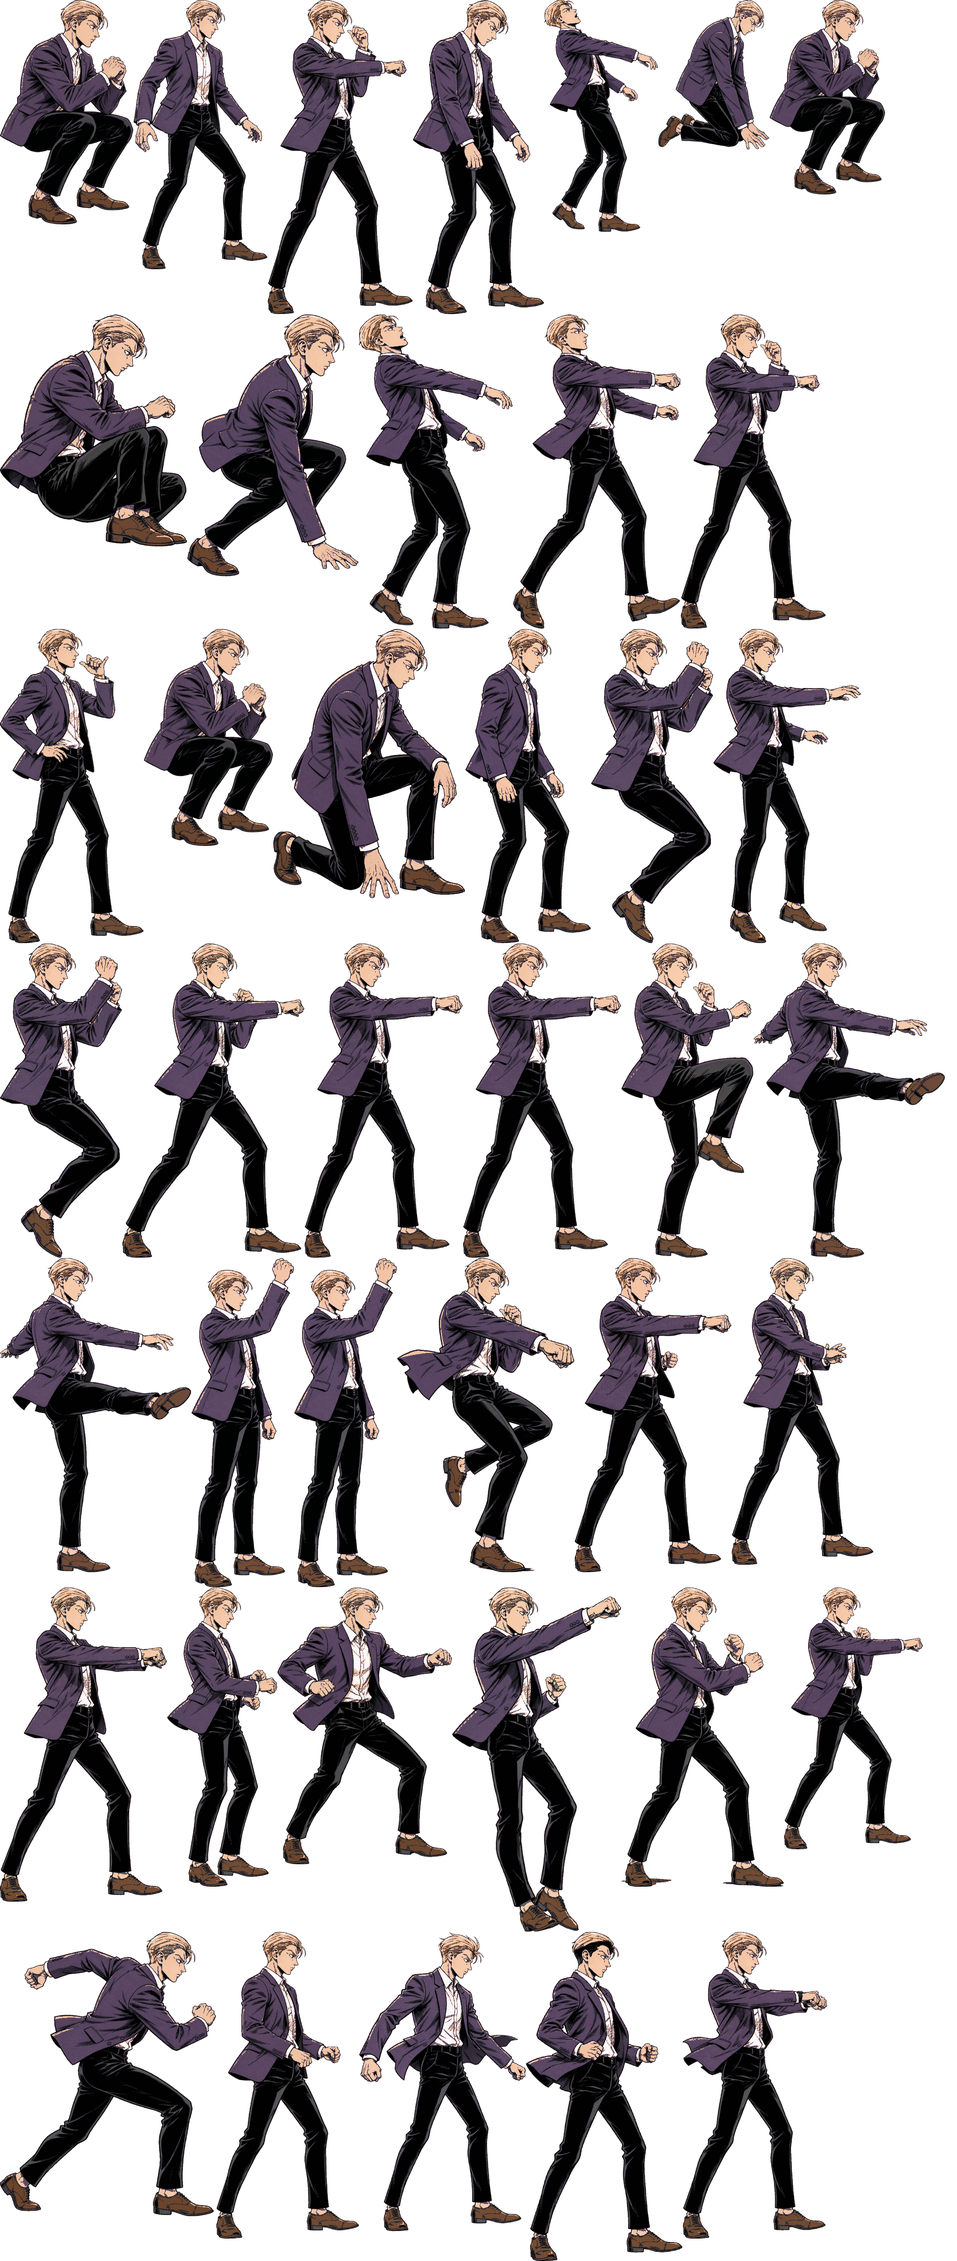
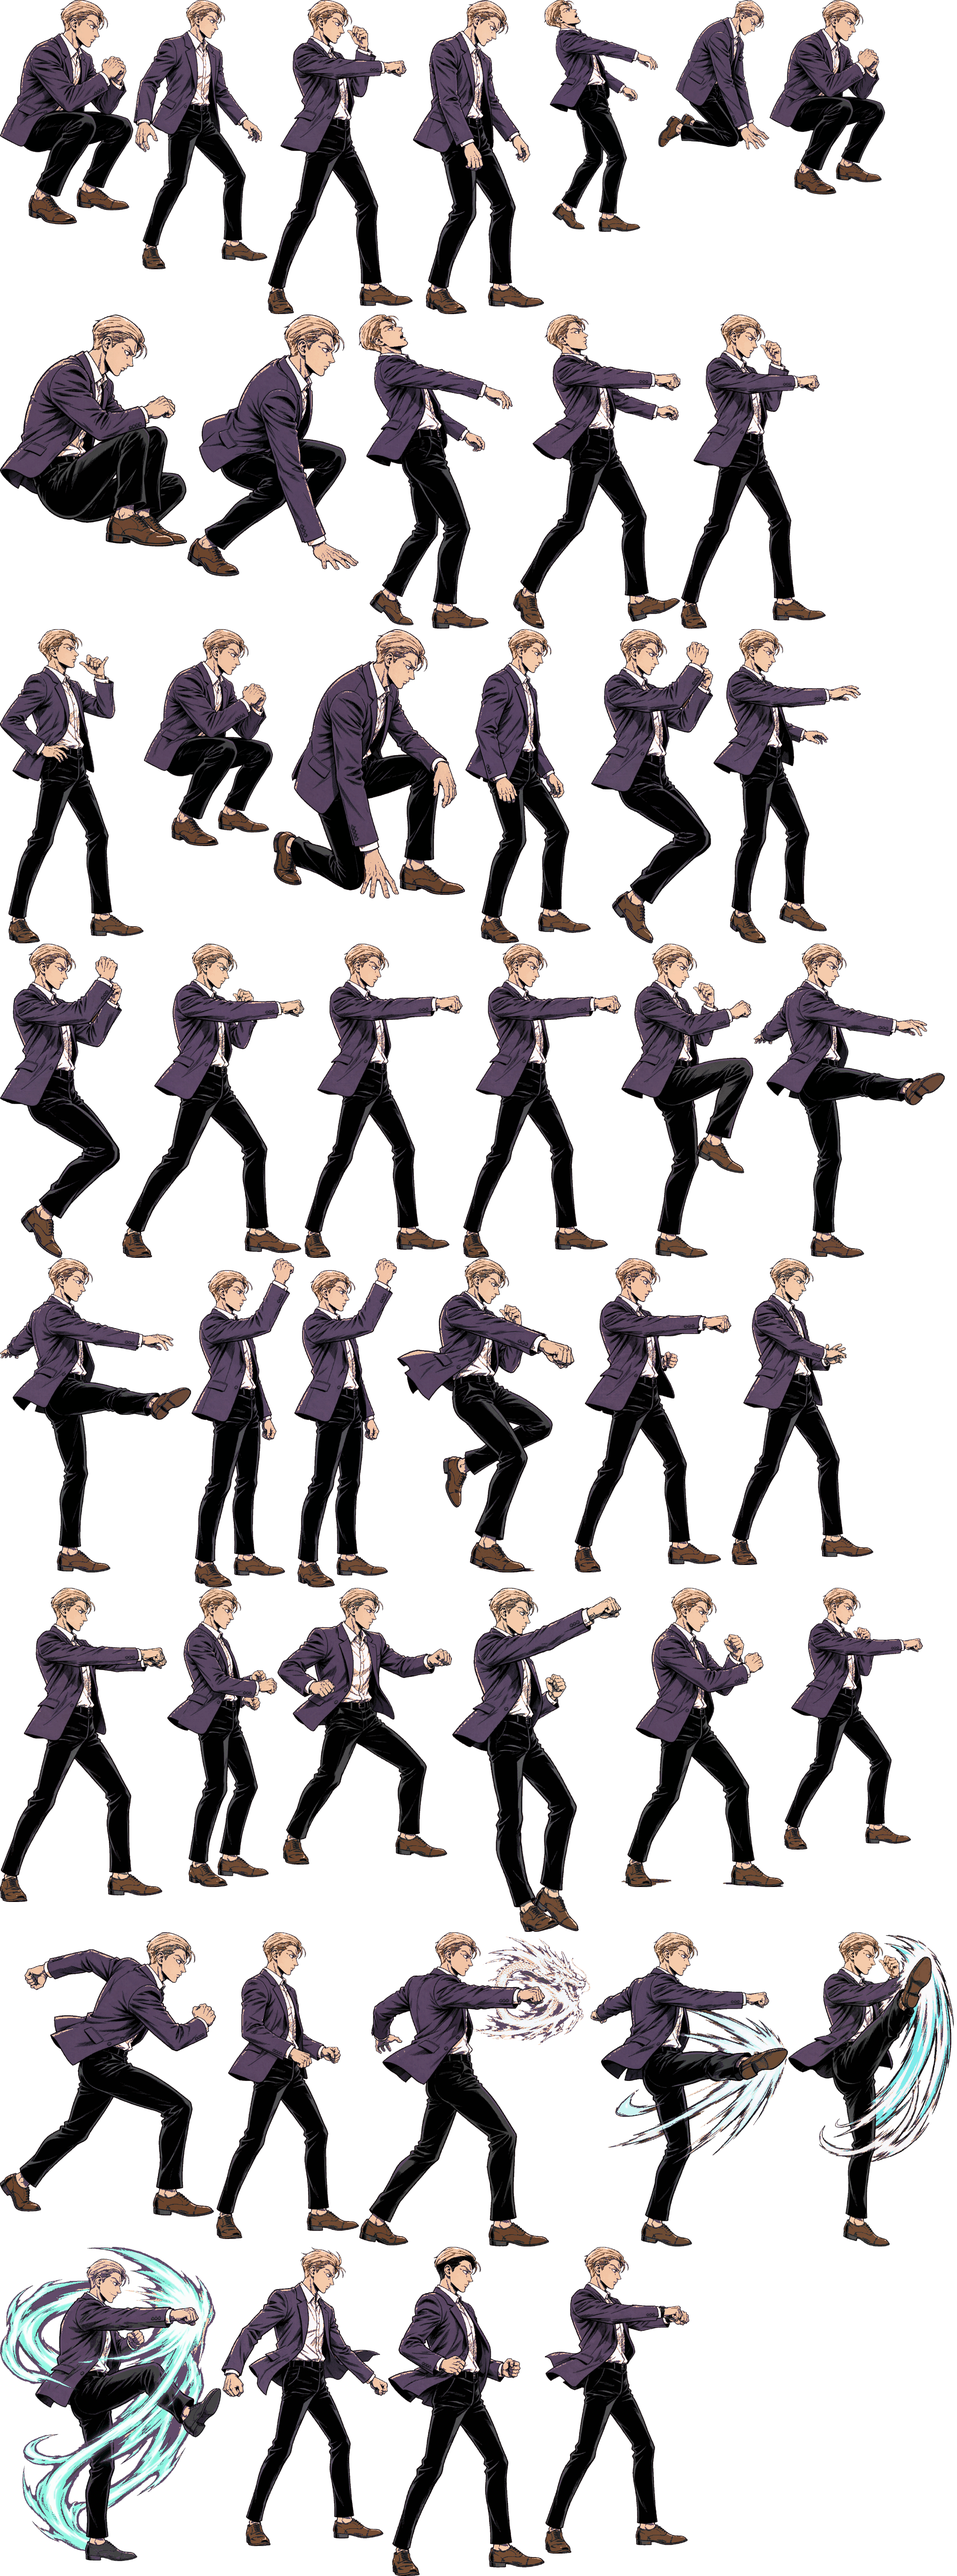
批次 20261027-0729 · [T263] 动作专属化 10/27：獠 + Robert 各 4 招
改了什么：
- gen-poses 加 8 条（Ryo：橙黄气弹/连打气浪/缠气劈腿/巨大气柱；
  Robert：青白龙形气流/腿影残像/缠气上踢/全身气流环绕）
- build-sheet 加 ryospecial1-3 + ryosuper、robspecial1-3 + robsuper，
  同时更新 EXCLUSIVE_OWNER
- poses.ts 加 8 个兜底（带 exclusive）
- ryo.ts / robert.ts 各改 5 处

两个坑：
1. robgen-ei 当对象 key 有连字符 → 语法错误，改成 robgenei
2. poses.ts 里把"姿势名"写成了出图姿势名（robgenei）而不是动画名（robspecial2），
   测试报「姿势库里没有 robspecial2」——**姿势名必须和 anim 名一致**

风格区分：Ryo＝白道服、刚猛、橙黄气；Robert＝紫西装、飘逸、青白气
（两人有同名招式但气质不同）。

怎么验证的：art:check 通过；npm run check 995 条全绿；
打包两个角色都检查了错误（grep -qi error），失败=0

diff --git a/src/data/chars/robert.ts b/src/data/chars/robert.ts
@@ -41,7 +41,7 @@ export const ROBERT: CharDef = {
 
     // ---------------------------------------------------------------- 必杀技
     // 龍撃拳：气弹
-    '236A': mv('236A', '龍撃拳', 'special', 36, 'special', [], {
+    '236A': mv('236A', '龍撃拳', 'robspecial1', 36, 'special', [], {
       input: { motion: '236', buttons: ['A'] },
       projectile: {
         anim: '龍撃拳',
@@ -76,7 +76,7 @@ export const ROBERT: CharDef = {
     ], { input: { motion: '214', buttons: ['B'] }, travel: 62, travelFrames: 15 }),
 
     // 幻影脚・連：二段回旋（可取消接龍撃拳）
-    '214A': mv('214A', '幻影脚・連', 'kickLight', 34, 'special', [
+    '214A': mv('214A', '幻影脚・連', 'robspecial2', 34, 'special', [
       hit('h1', { box: { x: 12, y: -60, w: 32, h: 18 }, frames: [8, 11], damage: 34, hitStun: 15, hitstop: 7, meterGain: 5 }),
       hit('h2', {
         box: { x: 12, y: -66, w: 34, h: 20 },
@@ -90,7 +90,7 @@ export const ROBERT: CharDef = {
     ], { input: { motion: '214', buttons: ['A'] }, cancel: { onHit: ['236A'] } }),
 
     // 昇龍脚：对空
-    '623B': mv('623B', '昇龍脚', 'kickHeavy', 40, 'special', [
+    '623B': mv('623B', '昇龍脚', 'robspecial3', 40, 'special', [
       hit('h1', {
         box: { x: 6, y: -90, w: 28, h: 64 },
         frames: [4, 11],
@@ -104,7 +104,7 @@ export const ROBERT: CharDef = {
     ], { input: { motion: '623', buttons: ['B'] }, invuln: [{ frames: [1, 6], kind: 'full' }] }),
 
     // ---------------------------------------------------------------- 超必杀
-    '236236B': mv('236236B', '龍虎乱舞', 'special', 70, 'super', [
+    '236236B': mv('236236B', '龍虎乱舞', 'robsuper', 70, 'super', [
       hit('h1', { box: { x: 12, y: -70, w: 38, h: 30 }, frames: [8, 12], damage: 40, hitStun: 18, hitstop: 8, meterGain: 0 }),
       hit('h2', { box: { x: 12, y: -70, w: 38, h: 30 }, frames: [16, 20], damage: 36, hitStun: 18, hitstop: 8, meterGain: 0 }),
       hit('h3', { box: { x: 12, y: -76, w: 40, h: 40 }, frames: [24, 28], damage: 36, hitStun: 18, hitstop: 8, meterGain: 0 }),
@@ -120,7 +120,7 @@ export const ROBERT: CharDef = {
       }),
     ], { input: { motion: '236236', buttons: ['B'] }, meterCost: 100, travel: 70, travelFrames: 12 }),
 
-    '2363214B': mv('2363214B', '覇王翔吼拳', 'special', 58, 'super', [], {
+    '2363214B': mv('2363214B', '覇王翔吼拳', 'robsuper', 58, 'super', [], {
       input: { motion: '2363214', buttons: ['B'] },
       meterCost: 50,
       projectile: {

diff --git a/src/render/poses.ts b/src/render/poses.ts
@@ -592,6 +592,15 @@ export const POSE_LIBRARY: Record<string, Pose> = {
   joespecial2: { frameDuration: 1, loop: false, exclusive: 'joe', frames: [f({ head: p(-1, -72), neck: p(-1, -62), hip: p(0, -41), legFront: [p(14, -56), p(20, -76)], legBack: [p(-6, -22), p(-6, -1)] })] },
   joespecial3: { frameDuration: 1, loop: false, exclusive: 'joe', frames: [f({ head: p(3, -70), neck: p(2, -60), hip: p(0, -40), legFront: [p(20, -48), p(30, -44)], legBack: [p(-8, -26), p(-10, -6)] })] },
   joesuper: { frameDuration: 1, loop: false, exclusive: 'joe', frames: [f({ head: p(-2, -72), neck: p(-2, -62), hip: p(0, -40), armFront: [p(10, -62), p(8, -80)], armBack: [p(-12, -50), p(-18, -42)] })] },
+  // 獠 / Robert 专属必杀的兜底
+  ryospecial1: { frameDuration: 1, loop: false, exclusive: 'ryo', frames: [f({ head: p(4, -68), neck: p(4, -58), hip: p(1, -37), armFront: [p(16, -58), p(30, -56)], armBack: [p(-10, -52), p(-16, -46)] })] },
+  ryospecial2: { frameDuration: 1, loop: false, exclusive: 'ryo', frames: [f({ head: p(5, -68), neck: p(5, -58), hip: p(1, -37), armFront: [p(18, -56), p(30, -54)], armBack: [p(6, -56), p(18, -54)] })] },
+  ryospecial3: { frameDuration: 1, loop: false, exclusive: 'ryo', frames: [f({ head: p(0, -72), neck: p(0, -62), hip: p(0, -40), legFront: [p(16, -54), p(22, -76)], legBack: [p(-8, -24), p(-8, -2)] })] },
+  ryosuper: { frameDuration: 1, loop: false, exclusive: 'ryo', frames: [f({ head: p(-1, -70), neck: p(-1, -60), hip: p(0, -38), armFront: [p(16, -58), p(32, -56)], armBack: [p(8, -58), p(22, -56)] })] },
+  robspecial1: { frameDuration: 1, loop: false, exclusive: 'robert', frames: [f({ head: p(4, -68), neck: p(4, -58), hip: p(1, -37), armFront: [p(16, -58), p(28, -58)], armBack: [p(-10, -52), p(-16, -46)] })] },
+  robspecial2: { frameDuration: 1, loop: false, exclusive: 'robert', frames: [f({ head: p(3, -70), neck: p(2, -60), hip: p(0, -38), legFront: [p(18, -50), p(28, -44)], legBack: [p(-8, -26), p(-10, -6)] })] },
+  robspecial3: { frameDuration: 1, loop: false, exclusive: 'robert', frames: [f({ head: p(1, -74), neck: p(1, -64), hip: p(0, -41), legFront: [p(14, -58), p(16, -82)], legBack: [p(-6, -22), p(-6, -1)] })] },
+  robsuper: { frameDuration: 1, loop: false, exclusive: 'robert', frames: [f({ head: p(3, -68), neck: p(3, -58), hip: p(0, -37), armFront: [p(16, -56), p(28, -50)], armBack: [p(-6, -54), p(-12, -48)] })] },
   /** 升龙系：整个人向上冲，手臂上举 */
   specialUppercut: {
     frameDuration: 1,

diff --git a/src/data/chars/ryo.ts b/src/data/chars/ryo.ts
@@ -41,7 +41,7 @@ export const RYO: CharDef = {
 
     // ---------------------------------------------------------------- 必杀技
     // 虎煌拳：气弹
-    '236A': mv('236A', '虎煌拳', 'special', 38, 'special', [], {
+    '236A': mv('236A', '虎煌拳', 'ryospecial1', 38, 'special', [], {
       input: { motion: '236', buttons: ['A'] },
       projectile: {
         anim: '虎煌拳',
@@ -62,7 +62,7 @@ export const RYO: CharDef = {
     }),
 
     // 暫烈拳：贴身连打（三段，原地）
-    '236C': mv('236C', '暫烈拳', 'punchHeavy', 44, 'special', [
+    '236C': mv('236C', '暫烈拳', 'ryospecial2', 44, 'special', [
       hit('h1', { box: { x: 12, y: -64, w: 30, h: 16 }, frames: [9, 12], damage: 32, hitStun: 14, hitstop: 6, meterGain: 5 }),
       hit('h2', { box: { x: 12, y: -64, w: 30, h: 16 }, frames: [15, 18], damage: 30, hitStun: 14, hitstop: 6, meterGain: 5 }),
       hit('h3', {
@@ -77,7 +77,7 @@ export const RYO: CharDef = {
     ], { input: { motion: '236', buttons: ['C'] } }),
 
     // 飛燕疾風脚：空中回旋踢（中段）
-    '214B': mv('214B', '飛燕疾風脚', 'kickHeavy', 40, 'special', [
+    '214B': mv('214B', '飛燕疾風脚', 'ryospecial3', 40, 'special', [
       hit('h1', {
         box: { x: 12, y: -70, w: 34, h: 26 },
         frames: [12, 16],
@@ -107,7 +107,7 @@ export const RYO: CharDef = {
     ], { input: { motion: '623', buttons: ['A'] }, invuln: [{ frames: [1, 5], kind: 'full' }] }),
 
     // ---------------------------------------------------------------- 超必杀
-    '236236A': mv('236236A', '覇王翔吼拳', 'special', 62, 'super', [], {
+    '236236A': mv('236236A', '覇王翔吼拳', 'ryosuper', 62, 'super', [], {
       input: { motion: '236236', buttons: ['A'] },
       meterCost: 50,
       projectile: {
@@ -128,7 +128,7 @@ export const RYO: CharDef = {
       },
     }),
 
-    '236236C': mv('236236C', '天地覇煌拳', 'special', 74, 'super', [
+    '236236C': mv('236236C', '天地覇煌拳', 'ryosuper', 74, 'super', [
       hit('h1', { box: { x: 10, y: -80, w: 42, h: 58 }, frames: [10, 14], damage: 45, hitStun: 20, hitstop: 9, meterGain: 0 }),
       hit('h2', { box: { x: 10, y: -80, w: 42, h: 58 }, frames: [20, 24], damage: 42, hitStun: 20, hitstop: 9, meterGain: 0 }),
       hit('h3', { box: { x: 10, y: -80, w: 42, h: 58 }, frames: [30, 34], damage: 42, hitStun: 20, hitstop: 9, meterGain: 0 }),

diff --git a/docs/MOVE-PER-CHAR.md b/docs/MOVE-PER-CHAR.md
@@ -68,8 +68,8 @@ mv('236A', '百拾四式・荒咬', 'punchLight', 26, 'special', [...])
 | 4 | Terry terry | パワーウェイブ / バーンナックル / ライジングタックル / パワーゲイザー | **done** |
 | 5 | Andy andy | 飛翔拳 / 斬影拳 / 昇龍弾 / 撃壁背水掌 | **done** |
 | 6 | Joe joe | 爆裂拳 / 虎破脚 / 竜巻旋風脚 / スクリューアッパー | **done** |
-| 7 | 坂崎リョウ ryo | 虎煌拳 / 虎咆 / 暫烈拳 / 覇王翔吼拳 | - |
-| 8 | ロバート robert | 龍撃拳 / 龍牙 / 飛燕疾風脚 / 幻影脚 | - |
+| 7 | 坂崎リョウ ryo | 虎煌拳 / 暫烈拳 / 飛燕疾風脚 / 覇王翔吼拳 | **done** |
+| 8 | ロバート robert | 龍撃拳 / 幻影脚・連 / 昇龍脚 / 龍虎乱舞 | **done** |
 | 9 | ユリ yuri | ユリ閃光拳 / 百烈びんた / サイキックボール / 覇王翔吼拳 | - |
 | 10 | レオナ leona | ムーンストライク / グランドセイバー / Xキャリバー / リボルブブラスター | - |
 | 11 | ラルフ ralf | バルカンパンチ / ギャラクティカファントム / ラルフキック / スーパーダブルウルフ | - |
@@ -90,7 +90,7 @@ mv('236A', '百拾四式・荒咬', 'punchLight', 26, 'special', [...])
 | 26 | 暴走庵 orochi_iori | 百八式・闇払い / 百式・鬼焼き / 屑風 / 禁千弐百拾八式・八稚女 | - |
 | 27 | 覚醒レオナ orochi_leona | グランドセイバー / ムーンストライカー / Xキャリバー / リボルブブラスター | - |
 
-**完成度：8 / 27**
+**完成度：10 / 27**
 
 ## 六、已完成记录
 
@@ -217,6 +217,28 @@ benispecial1: {
 | 虎破脚（236B） | `joespecial2` | 高踢、小腿缠火 |
 | 竜巻旋風脚（63214B） | `joespecial3` | 空中旋踢、**腿部拖出火焰旋风** |
 | スクリューアッパー（超必杀） | `joesuper` | 螺旋上勾、**拳头带火柱冲天** |
+
+### 9. 獠 Ryo（done）
+
+极限流空手道、刚猛、橙黄气：
+
+| 招式 | 专属动画 | 出图效果 |
+|---|---|---|
+| 虎煌拳（236A） | `ryospecial1` | 拳前凝聚**橙黄气弹** |
+| 暫烈拳（236C） | `ryospecial2` | 双拳连打、拳前气浪 |
+| 飛燕疾風脚（214B） | `ryospecial3` | 跃起劈腿、小腿缠气流 |
+| 覇王翔吼拳（超必杀） | `ryosuper` | 双掌推出、**巨大橙黄气柱** |
+
+### 10. Robert（done）
+
+极限流、飘逸、青白气（和 Ryo 同样的招式名，但气质刻意区分）：
+
+| 招式 | 专属动画 | 出图效果 |
+|---|---|---|
+| 龍撃拳（236A） | `robspecial1` | 爪拳拖**青白龙形气流** |
+| 幻影脚・連（214A） | `robspecial2` | 连踢、**腿影拉出残像** |
+| 昇龍脚（623B） | `robspecial3` | 跃起上踢、腿部青白气流 |
+| 龍虎乱舞（超必杀） | `robsuper` | 拳脚交替、**全身青白气流环绕** |
 
 ## 七、执行约定
 

diff --git a/.continue/doing/59bce7.md b/.continue/doing/59bce7.md
@@ -1,0 +1,14 @@
+# 队列 · 会话 59bce766a368447cf9cf15c7e36322c83
+
+> 状态：执行中
+> 创建：2026-10-27
+> 批次：20261027-0729
+
+> 本批目标：动作专属化第 9、10 个角色（獠、Robert）。
+
+- [x] [T263] Ryo + Robert 各 4 个必杀专属动作（10/27）→ 出图 + 数据 + 打包验证
+  - 做了什么：①`gen-poses.mjs` 加 8 条（Ryo：橙黄气弹/连打气浪/缠气劈腿/巨大气柱；Robert：青白龙形气流/腿影残像/缠气上踢/全身气流环绕）；②`build-sheet.mjs` 加 `ryospecial1-3`+`ryosuper`、`robspecial1-3`+`robsuper`，同时更新 `EXCLUSIVE_OWNER`；③`poses.ts` 加 8 个兜底（带 `exclusive`）；④`ryo.ts`/`robert.ts` 各改 5 处
+  - **两个坑**：①`robgen-ei` 当对象 key 有连字符 → **语法错误**，改成 `robgenei`；②`poses.ts` 里把**姿势名**写成了出图姿势名（`robgenei`）而不是**动画名**（`robspecial2`），测试报「姿势库里没有 robspecial2」——姿势名必须和 anim 名一致
+  - **风格区分**：Ryo＝白道服、刚猛、橙黄气；Robert＝紫西装、飘逸、青白气（两人有同名招式但气质不同）
+  - 验证：`art:check` 通过；`npm run check` **995 条全绿**；打包两个角色**都检查了错误**（`grep -qi error`），失败=0
+  - 批次：20261027-0729

diff --git a/.continue/TASKS.md b/.continue/TASKS.md
@@ -281,3 +281,4 @@
 - [x] T260 角色动作专属化 4/27：Terry（力量型橙火）+ Athena（超能力粉紫光）各 4 招
 - [x] T261 姿势 exclusive 自声明机制 + 动作专属化 6/27（红丸/大门）
 - [x] T262 角色动作专属化 8/27：Andy + Joe 各 4 招；修 exclusive 动画被跨角色打包的 bug
+- [x] T263 角色动作专属化 10/27：獠（橙黄气）+ Robert（青白气）各 4 招
